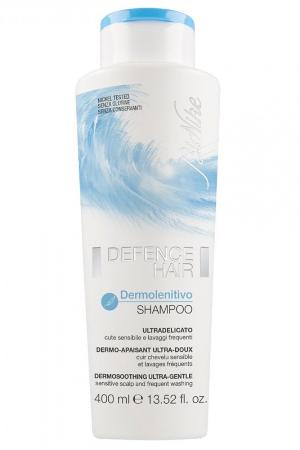
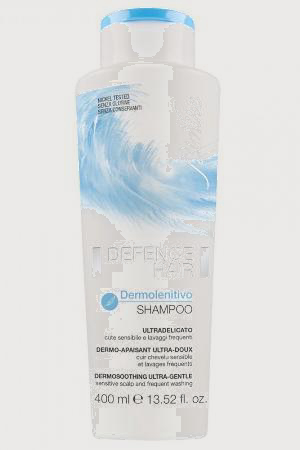
fix(content): Italian hair article — numbered sections, font swap, image backgrounds
Replace ## headings with NumberedSection (01.–05.) for listicle format.
Swap Playfair Display for Italiana in the display font slot. Remove
discontinued Les Huilette Hair Serum EditorNote. Recolour 7 product image
backgrounds from white/light-grey to #EAE9E7 to match the tile shade.

diff --git a/app/layout.tsx b/app/layout.tsx
@@ -1,5 +1,5 @@
 import type { Metadata } from 'next'
-import { EB_Garamond, Hanken_Grotesk, Playfair_Display } from 'next/font/google'
+import { EB_Garamond, Hanken_Grotesk, Italiana } from 'next/font/google'
 import Script from 'next/script'
 import './globals.css'
 import MastheadData from '@/components/layout/MastheadData'
@@ -13,13 +13,12 @@ const ebGaramond = EB_Garamond({
   style: ['normal', 'italic'],
 })
 
-// Playfair Display — display numerals (NumberedSection)
-const playfairDisplay = Playfair_Display({
+// Italiana — display numerals (NumberedSection)
+const italiana = Italiana({
   subsets: ['latin'],
   variable: '--font-display',
   display: 'swap',
-  weight: ['400', '700'],
-  style: ['normal', 'italic'],
+  weight: ['400'],
 })
 
 // Hanken Grotesk — eyebrows, breadcrumbs, nav, tags, buttons
@@ -116,7 +115,7 @@ const orgSchema = {
 
 export default function RootLayout({ children }: { children: React.ReactNode }) {
   return (
-    <html lang="en-AU" className={`${ebGaramond.variable} ${hankenGrotesk.variable} ${playfairDisplay.variable}`}>
+    <html lang="en-AU" className={`${ebGaramond.variable} ${hankenGrotesk.variable} ${italiana.variable}`}>
       <body>
         <Script
           id="schema-org"
